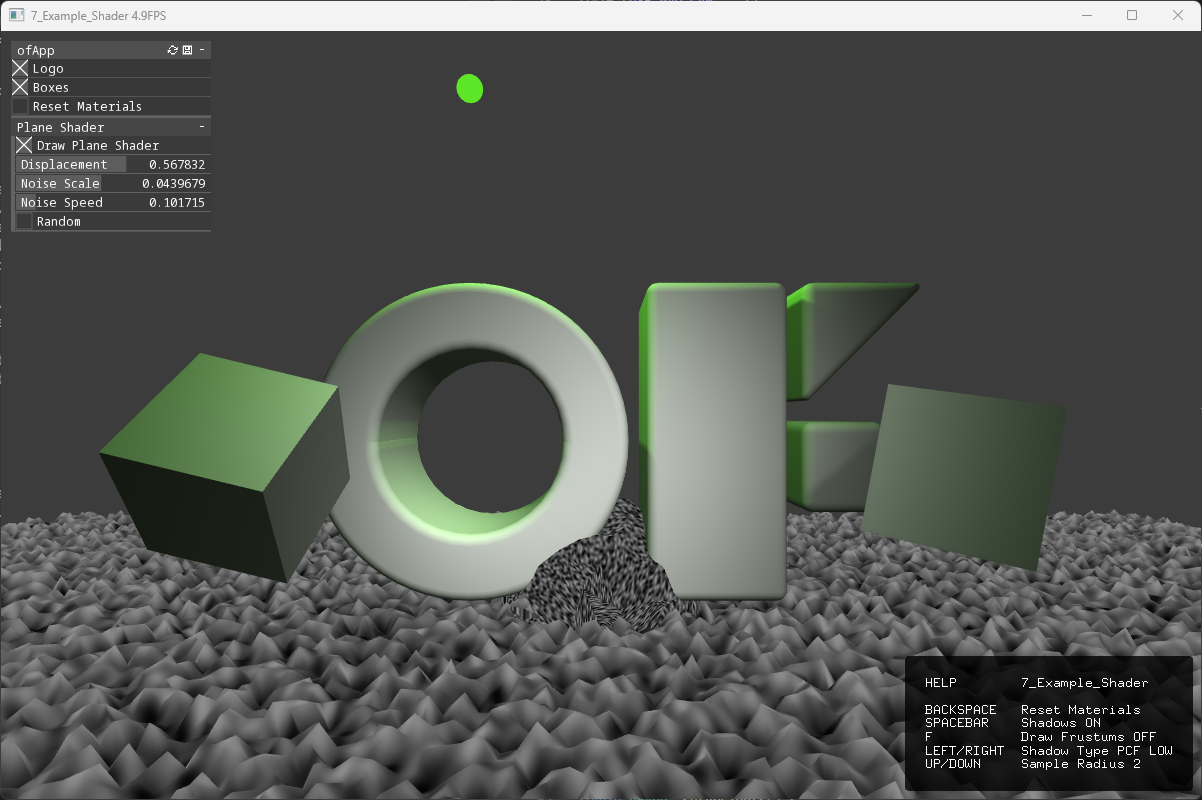
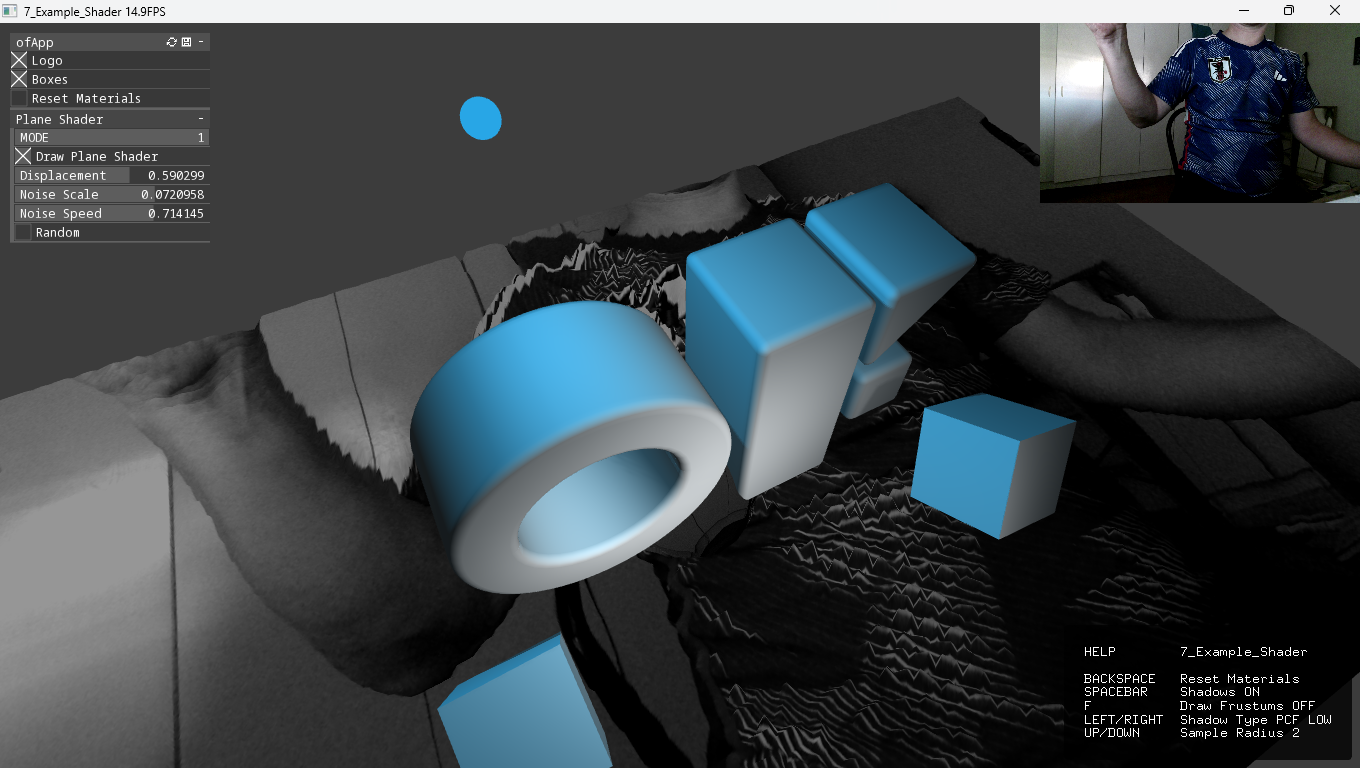
fixed camera shader

diff --git a/7_Example_Shader/src/ofApp.cpp b/7_Example_Shader/src/ofApp.cpp
@@ -55,6 +55,7 @@ void ofApp::setupShader() {
 	videoGrabber.setup(camWidth, camHeight);
 
 	parametersPlaneShader.setName("Plane Shader");
+	parametersPlaneShader.add(indexMode.set("MODE", 1, 0, 1));
 	parametersPlaneShader.add(bDrawPlaneShader.set("Draw Plane Shader", true));
 	parametersPlaneShader.add(noiseAmplitude.set("Displacement", 0.0f, 0.0f, 1.0f));
 	parametersPlaneShader.add(noiseScale.set("Noise Scale", 0.0f, 0.0f, 0.1f));
@@ -291,11 +292,13 @@ void ofApp::updateShader() {
 	for (int y = 0; y < h; y++) {
 		for (int x = 0; x < w; x++) {
 			int i = y * w + x;
-#if 1
-			pixels[i] = noiseAmplitude * ofNoise(x * noiseScale, y * noiseScale, n);
-#else
-			pixels[i] = m * pixelsRef.getColor(x, y).getLightness();
-#endif
+
+			if (indexMode == 0) {
+				pixels[i] = noiseAmplitude * ofNoise(x * noiseScale, y * noiseScale, n);
+			} else if (indexMode == 1) {
+				pixels[i] = m * pixelsRef.getColor(x, y).getLightness();
+			} else if (indexMode == 2) {
+			}
 		}
 	}
 
@@ -384,6 +387,25 @@ void ofApp::drawScene() {
 	ofPopStyle();
 
 	camera.end();
+
+	//--
+
+	// cam preview
+	if (indexMode == 0) {
+	} else if (indexMode == 1) {
+		ofRectangle rect;
+		int w = 320;
+		int h = 320 * (9.f / 16.f);
+		int x = ofGetWidth() - w;
+		int y = 0;
+		rect = ofRectangle(x, y, w, h);
+#if 0
+		img.draw(rect);
+#else
+		videoGrabber.draw(rect);
+#endif
+	} else if (indexMode == 2) {
+	}
 }
 
 //--------------------------------------------------------------
@@ -486,7 +508,7 @@ void ofApp::Changed(ofAbstractParameter & e) {
 
 	if (n == vResetMaterials.getName()) {
 		resetMaterials();
-	} 
+	}
 }
 
 //--------------------------------------------------------------
@@ -496,7 +518,7 @@ void ofApp::ChangedParametersPlaneShader(ofAbstractParameter & e) {
 
 	ofLogNotice() << "Changed: " << n << ": " << e;
 
- if (n == vRandomShader.getName()) {
+	if (n == vRandomShader.getName()) {
 		noiseAmplitude = ofRandom(noiseAmplitude.getMin(), noiseAmplitude.getMax());
 		noiseScale = ofRandom(noiseScale.getMin(), noiseScale.getMax());
 		noiseSpeed = ofRandom(noiseSpeed.getMin(), noiseSpeed.getMax());
@@ -611,27 +633,3 @@ void ofApp::refreshGuiLinks() {
 	}
 }
 #endif
-
-//
-////--------------------------------------------------------------
-//void SurfingMaterial::refreshGui() {
-//	ofLogNotice("ofxSurfingPBR") << "SurfingMaterial:refreshGui()";
-//
-//	gui.getGroup(settingsParams.getName()).getGroup(coatParams.getName()).minimize();
-//	gui.getGroup(colorParams.getName()).minimize();
-//	gui.getGroup(globalParams.getName()).getGroup(globalLinksParams.getName()).minimize();
-//	gui.getGroup(moreParams.getName()).minimize();
-//
-//	guiHelpers.getGroup(randomizersParams.getName()).minimize();
-//}
-//
-////--------------------------------------------------------------
-//ofRectangle SurfingMaterial::getGuiShape() const {
-//	ofRectangle bb = gui.getShape();
-//	return bb;
-//}
-//
-////--------------------------------------------------------------
-//void SurfingMaterial::setGuiPosition(glm::vec2 pos) {
-//	gui.setPosition(pos.x, pos.y);
-//}

diff --git a/7_Example_Shader/src/ofApp.h b/7_Example_Shader/src/ofApp.h
@@ -103,6 +103,7 @@ public:
     ofParameter<float> noiseSpeed;
     ofParameter<bool> bDrawPlaneShader;
 	ofParameter<void> vRandomShader;
+	ofParameter<int> indexMode;
 	ofParameterGroup parametersPlaneShader;
 	void ChangedParametersPlaneShader(ofAbstractParameter & e);
 
